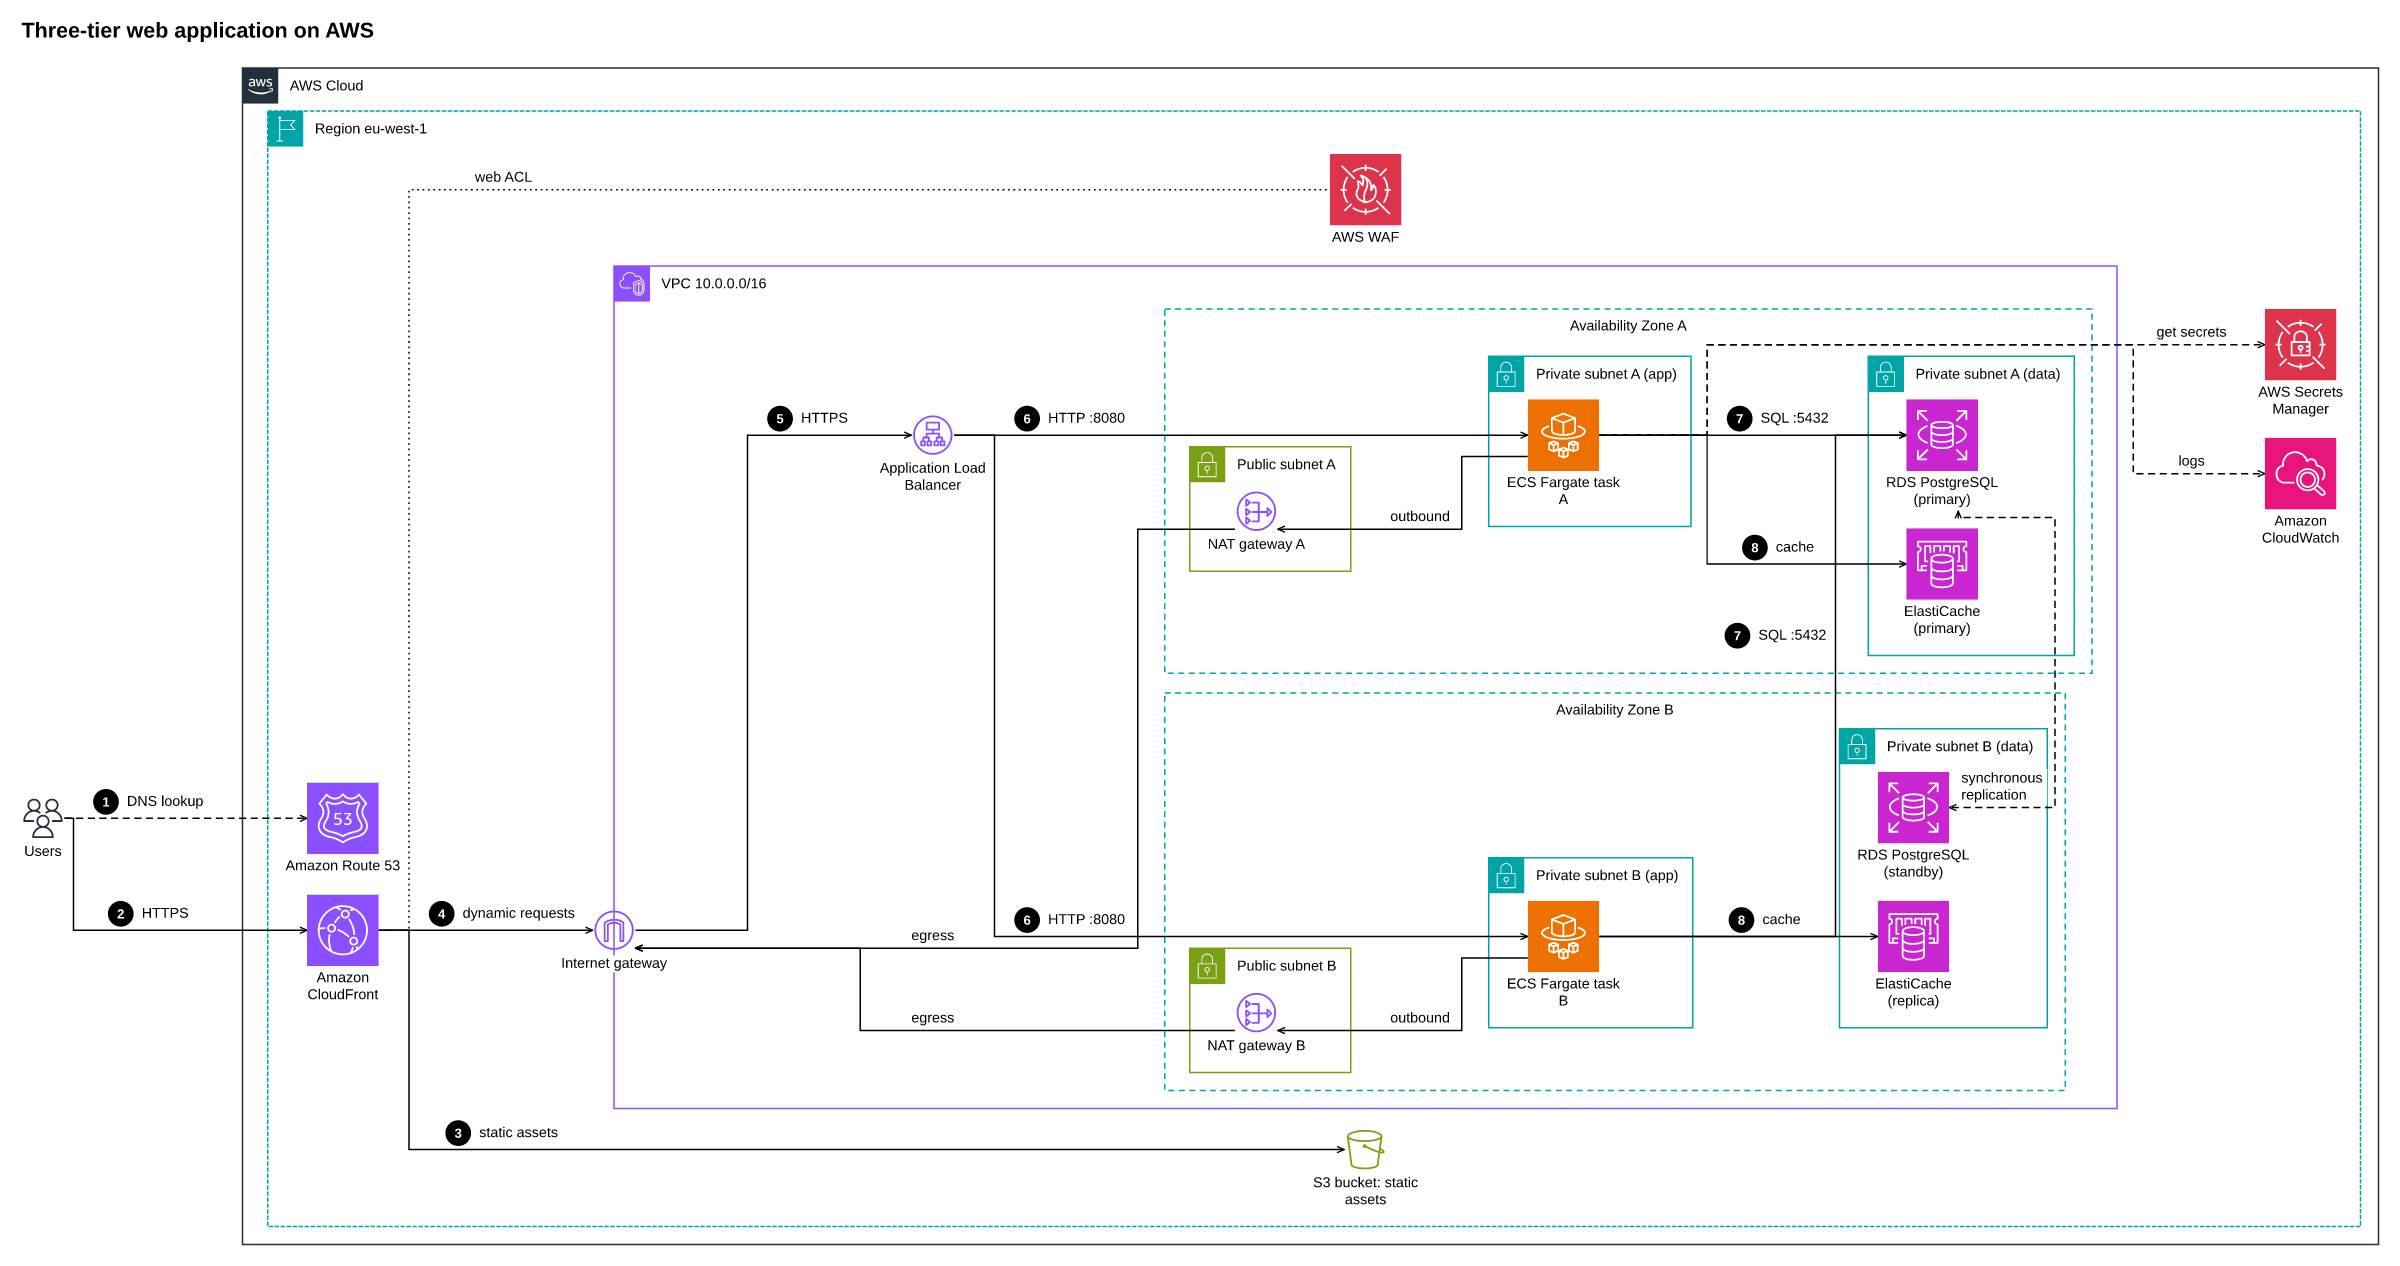
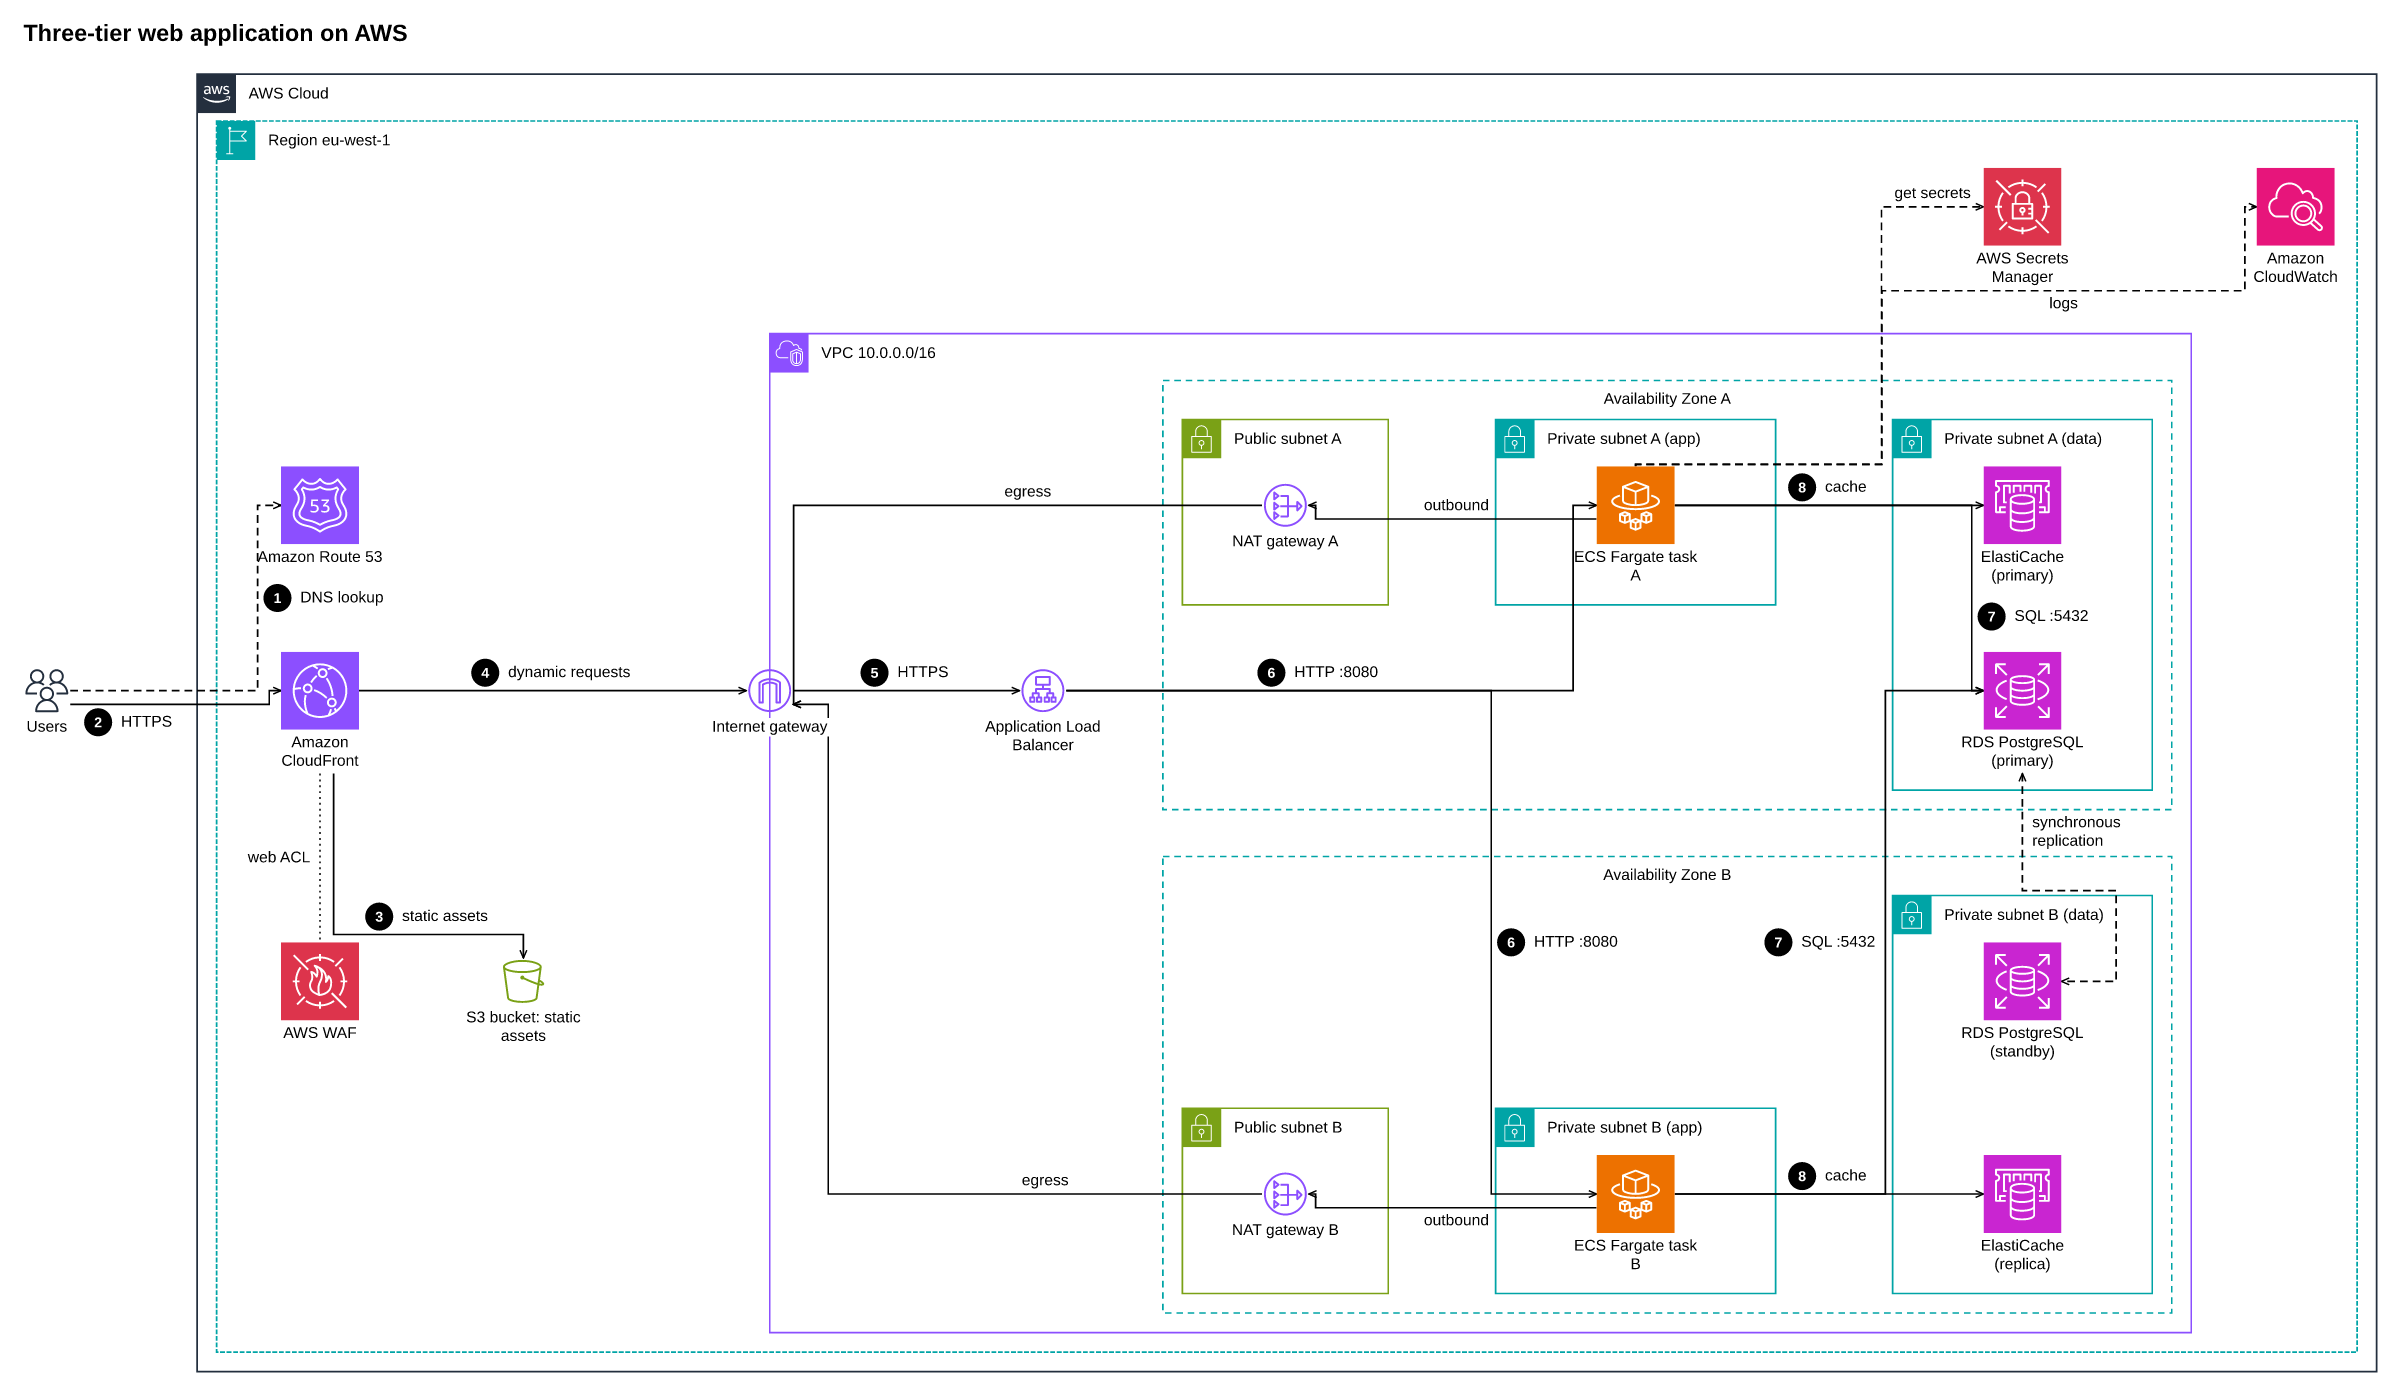
Layout files for the medium and large examples; grid solver fixes
- medium and large AWS examples get hand-made layout files: mirrored AZs
  with NAT, task and database in line; the multi-account picture in
  quadrants (production, security, network hub, data platform).
- Grid solver: only nested groups stack their borders and headers;
  nodes on a group border get room on both sides (and for their label).
- Router: an attachment point is shared only by a fan of the same
  style; header bands block lines; vertical neighbours also try C shapes.
- README install line points at v0.2.0.

diff --git a/README.md b/README.md
@@ -25,7 +25,7 @@ An agent skill that draws architecture diagrams. Describe the system; the agent 
 With [APM](https://github.com/microsoft/apm) (Agent Package Manager):
 
 ```
-apm install masteris777/diagram-skill#v0.1.0
+apm install masteris777/diagram-skill#v0.2.0
 ```
 
 APM copies the skill to `.claude/skills/diagram/` (Claude Code) and `.agents/skills/diagram/` (Copilot, Cursor, Gemini and others), whichever targets your project uses. Without APM, copy `.apm/skills/diagram/` to the folder your agent reads skills from, or run the script directly. APM installs with its own installer, Homebrew, WinGet, Scoop or `pip install apm-cli`; see its README.
@@ -60,7 +60,7 @@ Positions are automatic. When you want a node in a particular place, add a layou
   "nudge": { "fn": [0, 8] } }
 ```
 
-The picture at the top is drawn this way: [event-driven.json](.apm/skills/diagram/examples/aws/event-driven.json) says what exists, [event-driven.layout.json](.apm/skills/diagram/examples/aws/event-driven.layout.json) where it goes.
+The picture at the top is drawn this way: [event-driven.json](.apm/skills/diagram/examples/aws/event-driven.json) says what exists, [event-driven.layout.json](.apm/skills/diagram/examples/aws/event-driven.layout.json) where it goes. The medium and large examples have layout files too.
 
 Reference: [SKILL.md](.apm/skills/diagram/SKILL.md), [spec](.apm/skills/diagram/references/spec.md), [layout recipes](.apm/skills/diagram/references/layout.md), [AWS style](.apm/skills/diagram/references/aws-style.md), [profiles](.apm/skills/diagram/references/profiles.md).
 
